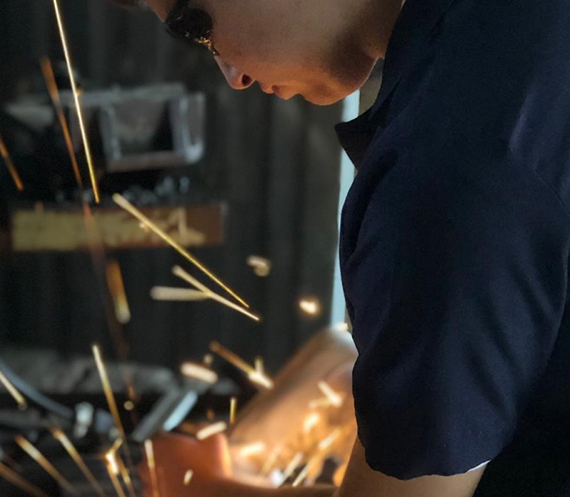
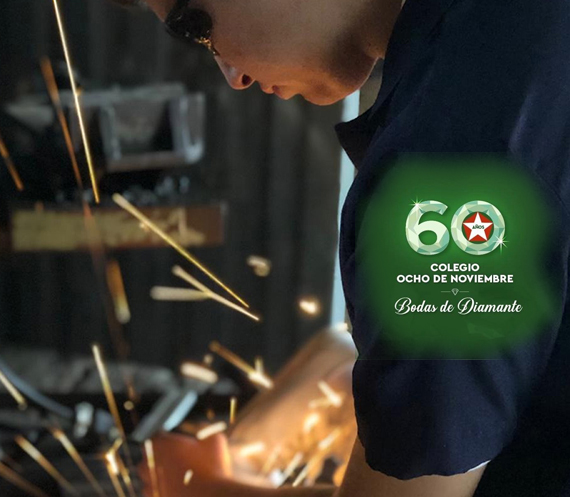
cambios color y foto fondo

Changed region(s): [[0.6263, 0.3018, 0.9842, 0.7243]]

diff --git a/index.html b/index.html
@@ -259,8 +259,8 @@
 			<div class="container">
 				<!-- Section Header -->
 				<div class="section-header">
-					<h3>Our Services</h3>
-					<p>Today still wanted government</p>
+					<h3>NUESTRAS ESPECIALIDADES</h3>
+					<p>Pioneros en carrera cortas</p>
 				</div><!-- Section Header /- -->
 				<div class="row">
 					<div class="col-md-4 col-sm-6 col-xs-6">
@@ -306,8 +306,8 @@
 			<div class="container">
 				<!-- Section Header -->
 				<div class="section-header">
-					<h3>Our Latest Projects</h3>
-					<p>Today still wanted by the government they surv</p>
+					<h3>Nuestros Proyectos</h3>
+					<p>Educacion sustentada en la practica</p>
 				</div><!-- Section Header -->
 				<!-- Portfolio Filters --> 
 				<ul id="filters" class="portfolio-categories no-left-padding sorting-menu">

diff --git a/css/shortcodes.css b/css/shortcodes.css
@@ -454,7 +454,7 @@
 	position: relative;
 }
 .services-section2::before {
-	background-color: rgba(0,0,0,0.9);
+	background-color: rgba(175, 193, 13, 0.773);
 	content: "";
 	display: inline-block;
 	position: absolute;
